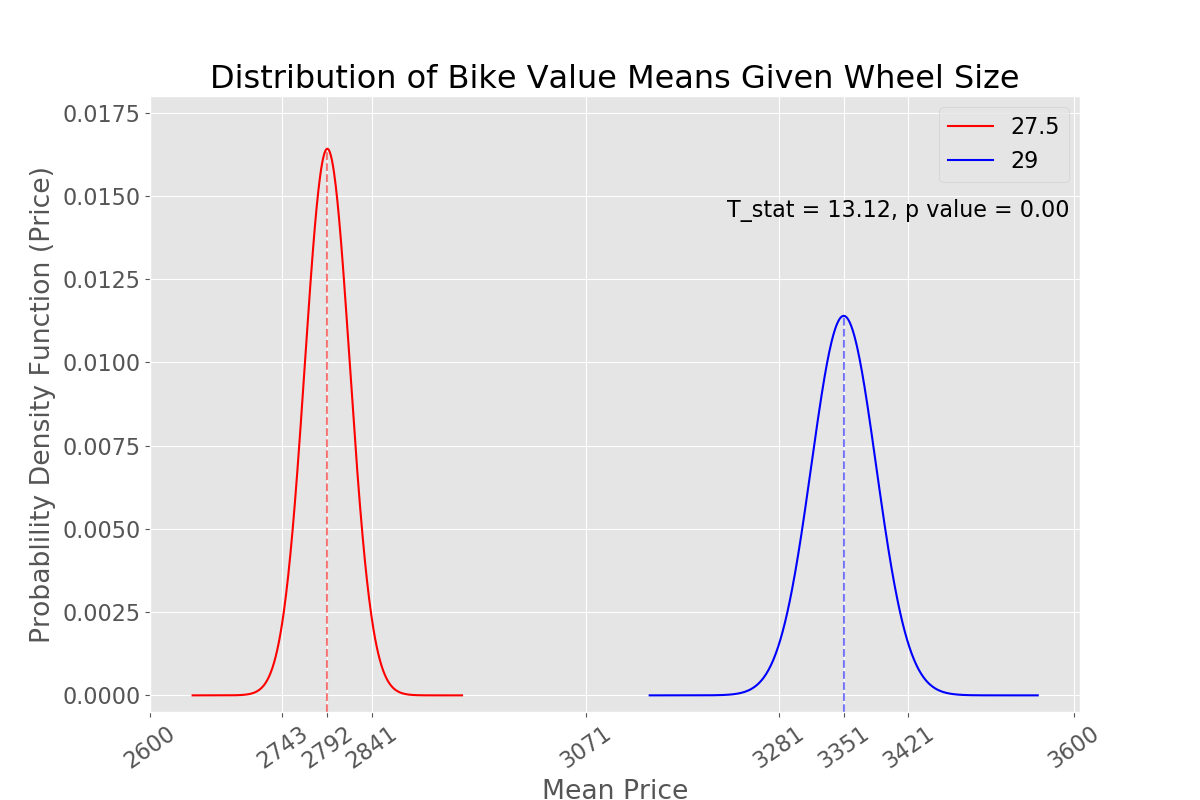
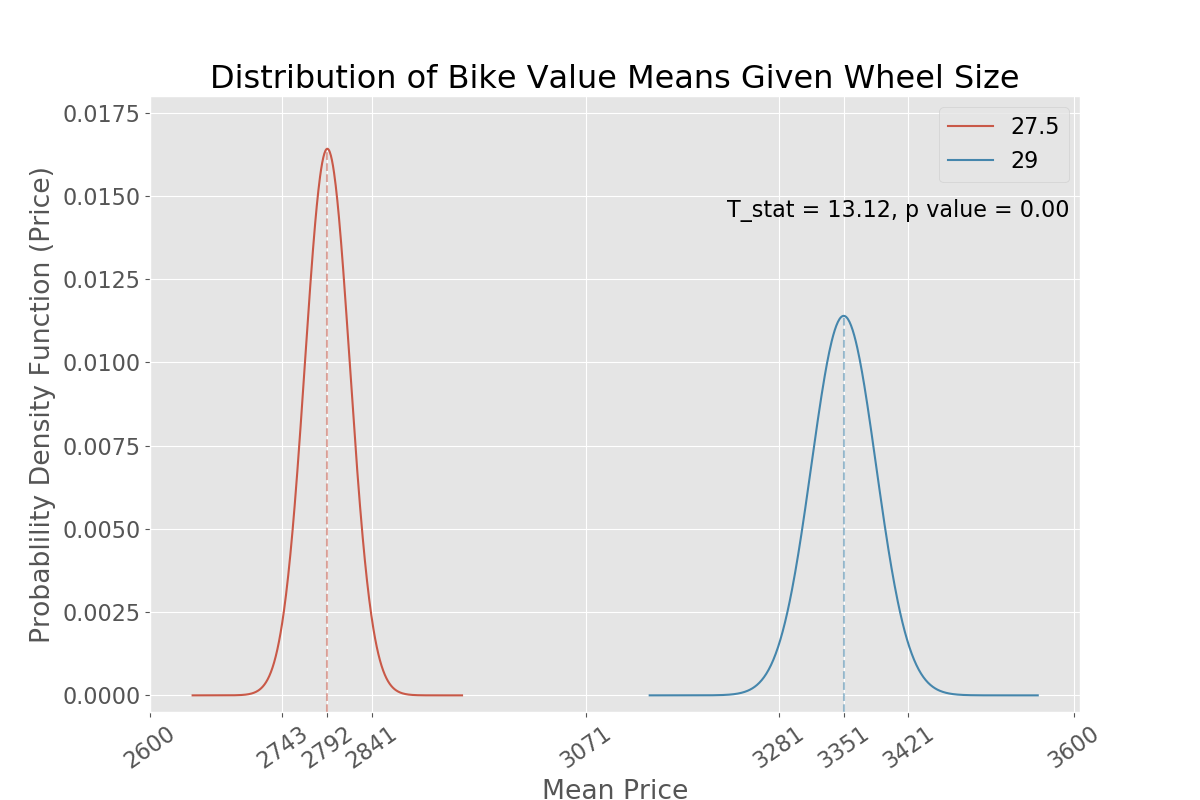
changed the colors to make them the same as seaborn

diff --git a/src/plots.py b/src/plots.py
@@ -47,14 +47,16 @@ if __name__=='__main__':
     t_test = stats.ttest_ind(df_29['Price'],df_275['Price'],equal_var=False)
     fig, ax = plt.subplots(figsize=(12,8))
 
-    ax.plot(x1,norm_275.pdf(x1),color='red',label='27.5')
-    ax.plot(x2,norm_29.pdf(x2),color= 'blue',label='29')
+    ax.plot(x1,norm_275.pdf(x1),color='#C95948',label='27.5')
+    ax.plot(x2,norm_29.pdf(x2),color= '#4586AC',label='29')
+    # sns.lineplot(x=x1,y=norm_275.pdf(x1),color='tab:red',ax=ax,label='27.5')
+    # sns.lineplot(x=x2,y=norm_29.pdf(x2),color='tab:blue',ax=ax,label='29')
     ax.set_title('Distribution of Bike Value Means Given Wheel Size')
     ax.set_xlabel("Mean Price")
     ax.set_ylabel("Probablility Density Function (Price)")
     ax.set_ylim([-.0005,.018])
-    ax.axvline(mean_29,ymax=norm_29.pdf(mean_29)/(.01775),color = 'blue',ls = '--',alpha=.5)
-    ax.axvline(mean_275,ymax=norm_275.pdf(mean_275)/(.018),color = 'red',ls = '--',alpha=.5)
+    ax.axvline(mean_29,ymax=norm_29.pdf(mean_29)/(.01775),color = '#4586AC',ls = '--',alpha=.5)
+    ax.axvline(mean_275,ymax=norm_275.pdf(mean_275)/(.018),color = '#C95948',ls = '--',alpha=.5)
     plt.text(3225,0.0143594,s=f'T_stat = {t_test[0]:.2f}, p value = {t_test[1]:.2f}')
     ax.set_xticks([2600,
                     round(mean_275-2*std_275,5),
@@ -68,8 +70,8 @@ if __name__=='__main__':
     ax.legend()
 
     fig1,ax1 = plt.subplots(figsize=(12,5))
-    sns.distplot(df_275['Price'],color='blue',bins=50,kde=True,ax=ax1,label='27.5')
-    sns.distplot(df_29['Price'],color='red',bins=50,kde=True,ax=ax1,label='29')
+    sns.distplot(df_275['Price'],color='#4586AC',bins=50,kde=True,ax=ax1,label='27.5')
+    sns.distplot(df_29['Price'],color='#C95948',bins=50,kde=True,ax=ax1,label='29')
     ax1.set_title('Histogram of 27.5" and 29" Wheel Bikes')
     ax1.legend()
     
@@ -78,8 +80,8 @@ if __name__=='__main__':
     fig2,ax2 = plt.subplots(figsize=(12,5))
     bins_ = [i for i in range(0,10000,150)]
    
-    sns.distplot(df_275['Price'],color='red',bins=bins_,kde=False,ax=ax2,label='27.5')
-    sns.distplot(df_29['Price'],color='blue',bins=bins_,kde=False,ax=ax2,label='29')
+    sns.distplot(df_275['Price'],color='#C95948',bins=bins_,kde=False,ax=ax2,label='27.5')
+    sns.distplot(df_29['Price'],color='#4586AC',bins=bins_,kde=False,ax=ax2,label='29')
     
 
     ax2.set_xticks(np.linspace(0,10000,25))
